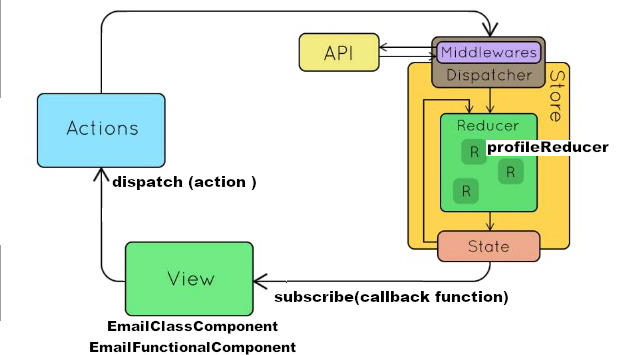
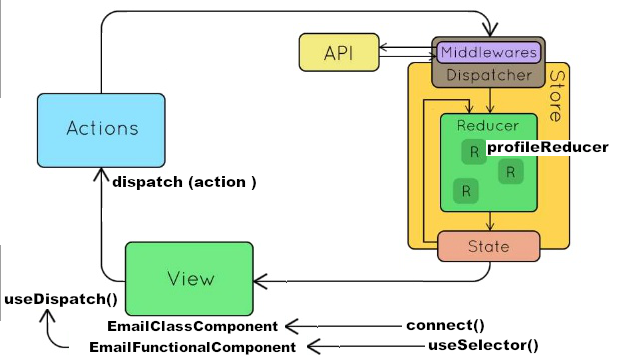
Refactory to add connect for redux

diff --git a/src/components/EmailClassComponent.tsx b/src/components/EmailClassComponent.tsx
@@ -1,47 +1,24 @@
 import * as React from "react";
+import { connect } from "react-redux";
 import { changeEmail } from "../store/reducers/profileReducer";
 import { store } from "../store/store";
+import { TStore } from "../store/store";
 
-export default class EmailClassComponent extends React.Component<any, any> {
-  _isMounted = false; // note this flag denote mount status
+class EmailClassComponent extends React.Component<any, any> {
 
   inputRef = React.createRef<HTMLInputElement>();
 
-  constructor(props: any) {
-    super(props);
-    this.state = { inputEmail: "", outputEmail: "" };
-
-    var self = this;
-
-    // Subscribe to store with callback function to listen changes from store
-    store.subscribe(() => {
-      this._isMounted = true;
-      if (this._isMounted) {
-        var data = store.getState().profileReducer.email;
-        self.updateComponentData(data);
-        console.log("Component receive data from store with subscribe");
-        //This throws Warning: Can't call setState on a component that is not yet mounted.
-        //This is a no-op, but it might indicate a bug in your application.
-      }
-    });
-  }
-
-  updateComponentData(data: string) {
-    this.setState({ outputEmail: data });
-  }
-
-  componentWillUnmount() {
-    this._isMounted = false;
-  }
-
-  public handleOnChange(event: any): void {
-    this.setState({ inputEmail: event.target.value });
-  }
+  // Constructor is not necessary
+  //constructor(props: any) {
+  //  super(props);
+  //  this.state = { email: "" };
+  //}
 
   public handleEmailChange = () => {
-    var value = this.state.inputEmail;
+    var value = "";
+    if (this.inputRef.current) value = this.inputRef.current.value;
 
-    // Triggers an action for the reducer to modify the state in store
+    // Triggers an action for the reducer to modify the state in store.
     store.dispatch(changeEmail({ email: value }));
 
     if (this.inputRef.current) this.inputRef.current.value = "";
@@ -52,16 +29,31 @@ export default class EmailClassComponent extends React.Component<any, any> {
       <div style={{ backgroundColor: "#7c9ecc" }}>
         <h1>EmailClassComponent</h1>
         <div>
-          <input
-            ref={this.inputRef}
-            placeholder="newEmail@gmail.com"
-            onChange={(e) => this.handleOnChange(e)}
-          />
+          <input ref={this.inputRef} placeholder="newEmail@gmail.com" />
 
           <button onClick={this.handleEmailChange}>Change email</button>
         </div>
-        <h2>Email: {this.state.outputEmail}</h2>
+        {console.log("render Prop:", this.props)}
+        <h2>Email: {this.props.email}</h2>
       </div>
     );
   }
 }
+
+/**
+ * If a mapStateToProps function is specified, the new wrapper component
+ * will subscribe to Redux store updates. This means that any time the store is updated,
+ * mapStateToProps will be called. The results of mapStateToProps must be a plain object,
+ * which will be merged into the wrapped component’s props.
+ * If your mapStateToProps function is declared as taking one parameter,
+ * it will be called whenever the store state changes, and given the store state as
+ * the only parameter.
+ * @param state
+ * @returns
+ */
+const mapStateToProps = (state: TStore) => state.profileReducer;
+
+/**
+ * The connect() function connects a React component to a Redux store.
+ */
+export default connect(mapStateToProps, null)(EmailClassComponent);

diff --git a/src/components/EmailFunctionalComponent.tsx b/src/components/EmailFunctionalComponent.tsx
@@ -4,10 +4,19 @@ import { changeEmail } from "../store/reducers/profileReducer";
 import { TStore } from "../store/store";
 
 const EmailFunctionalComponent = () => {
+  
+  /**
+   * This hook returns a reference to the dispatch function from the Redux store. 
+   * You may use it to dispatch actions as needed.
+   */
   const dispatch = useDispatch();
-  let htmlInputElement = React.createRef<HTMLInputElement>();
-
+  /**
+   * The equivalent of map state to props is useSelector. 
+   * It takes in a function argument that returns the part of the state that you want. 
+   */
   const { email } = useSelector((state: TStore) => state.profileReducer);
+
+  let htmlInputElement = React.createRef<HTMLInputElement>();
 
   const handleEmailChange = () => {
     var value = "newEmail@gmail.com";

diff --git a/src/store/reducers/profileReducer.ts b/src/store/reducers/profileReducer.ts
@@ -1,7 +1,7 @@
 
 import { createSlice, PayloadAction } from '@reduxjs/toolkit'
 
-type TPayload = {
+type TEmailPayload = {
   email: string;
 };
 
@@ -23,7 +23,7 @@ const profileSlice = createSlice({
     email: '',
   },
   reducers: {
-    changeEmail: (state, { payload }: PayloadAction<TPayload>) => {
+    changeEmail: (state, { payload }: PayloadAction<TEmailPayload>) => {
       state.email = payload.email;
       console.log("Reducer profileSlice change state in store.");
     },
